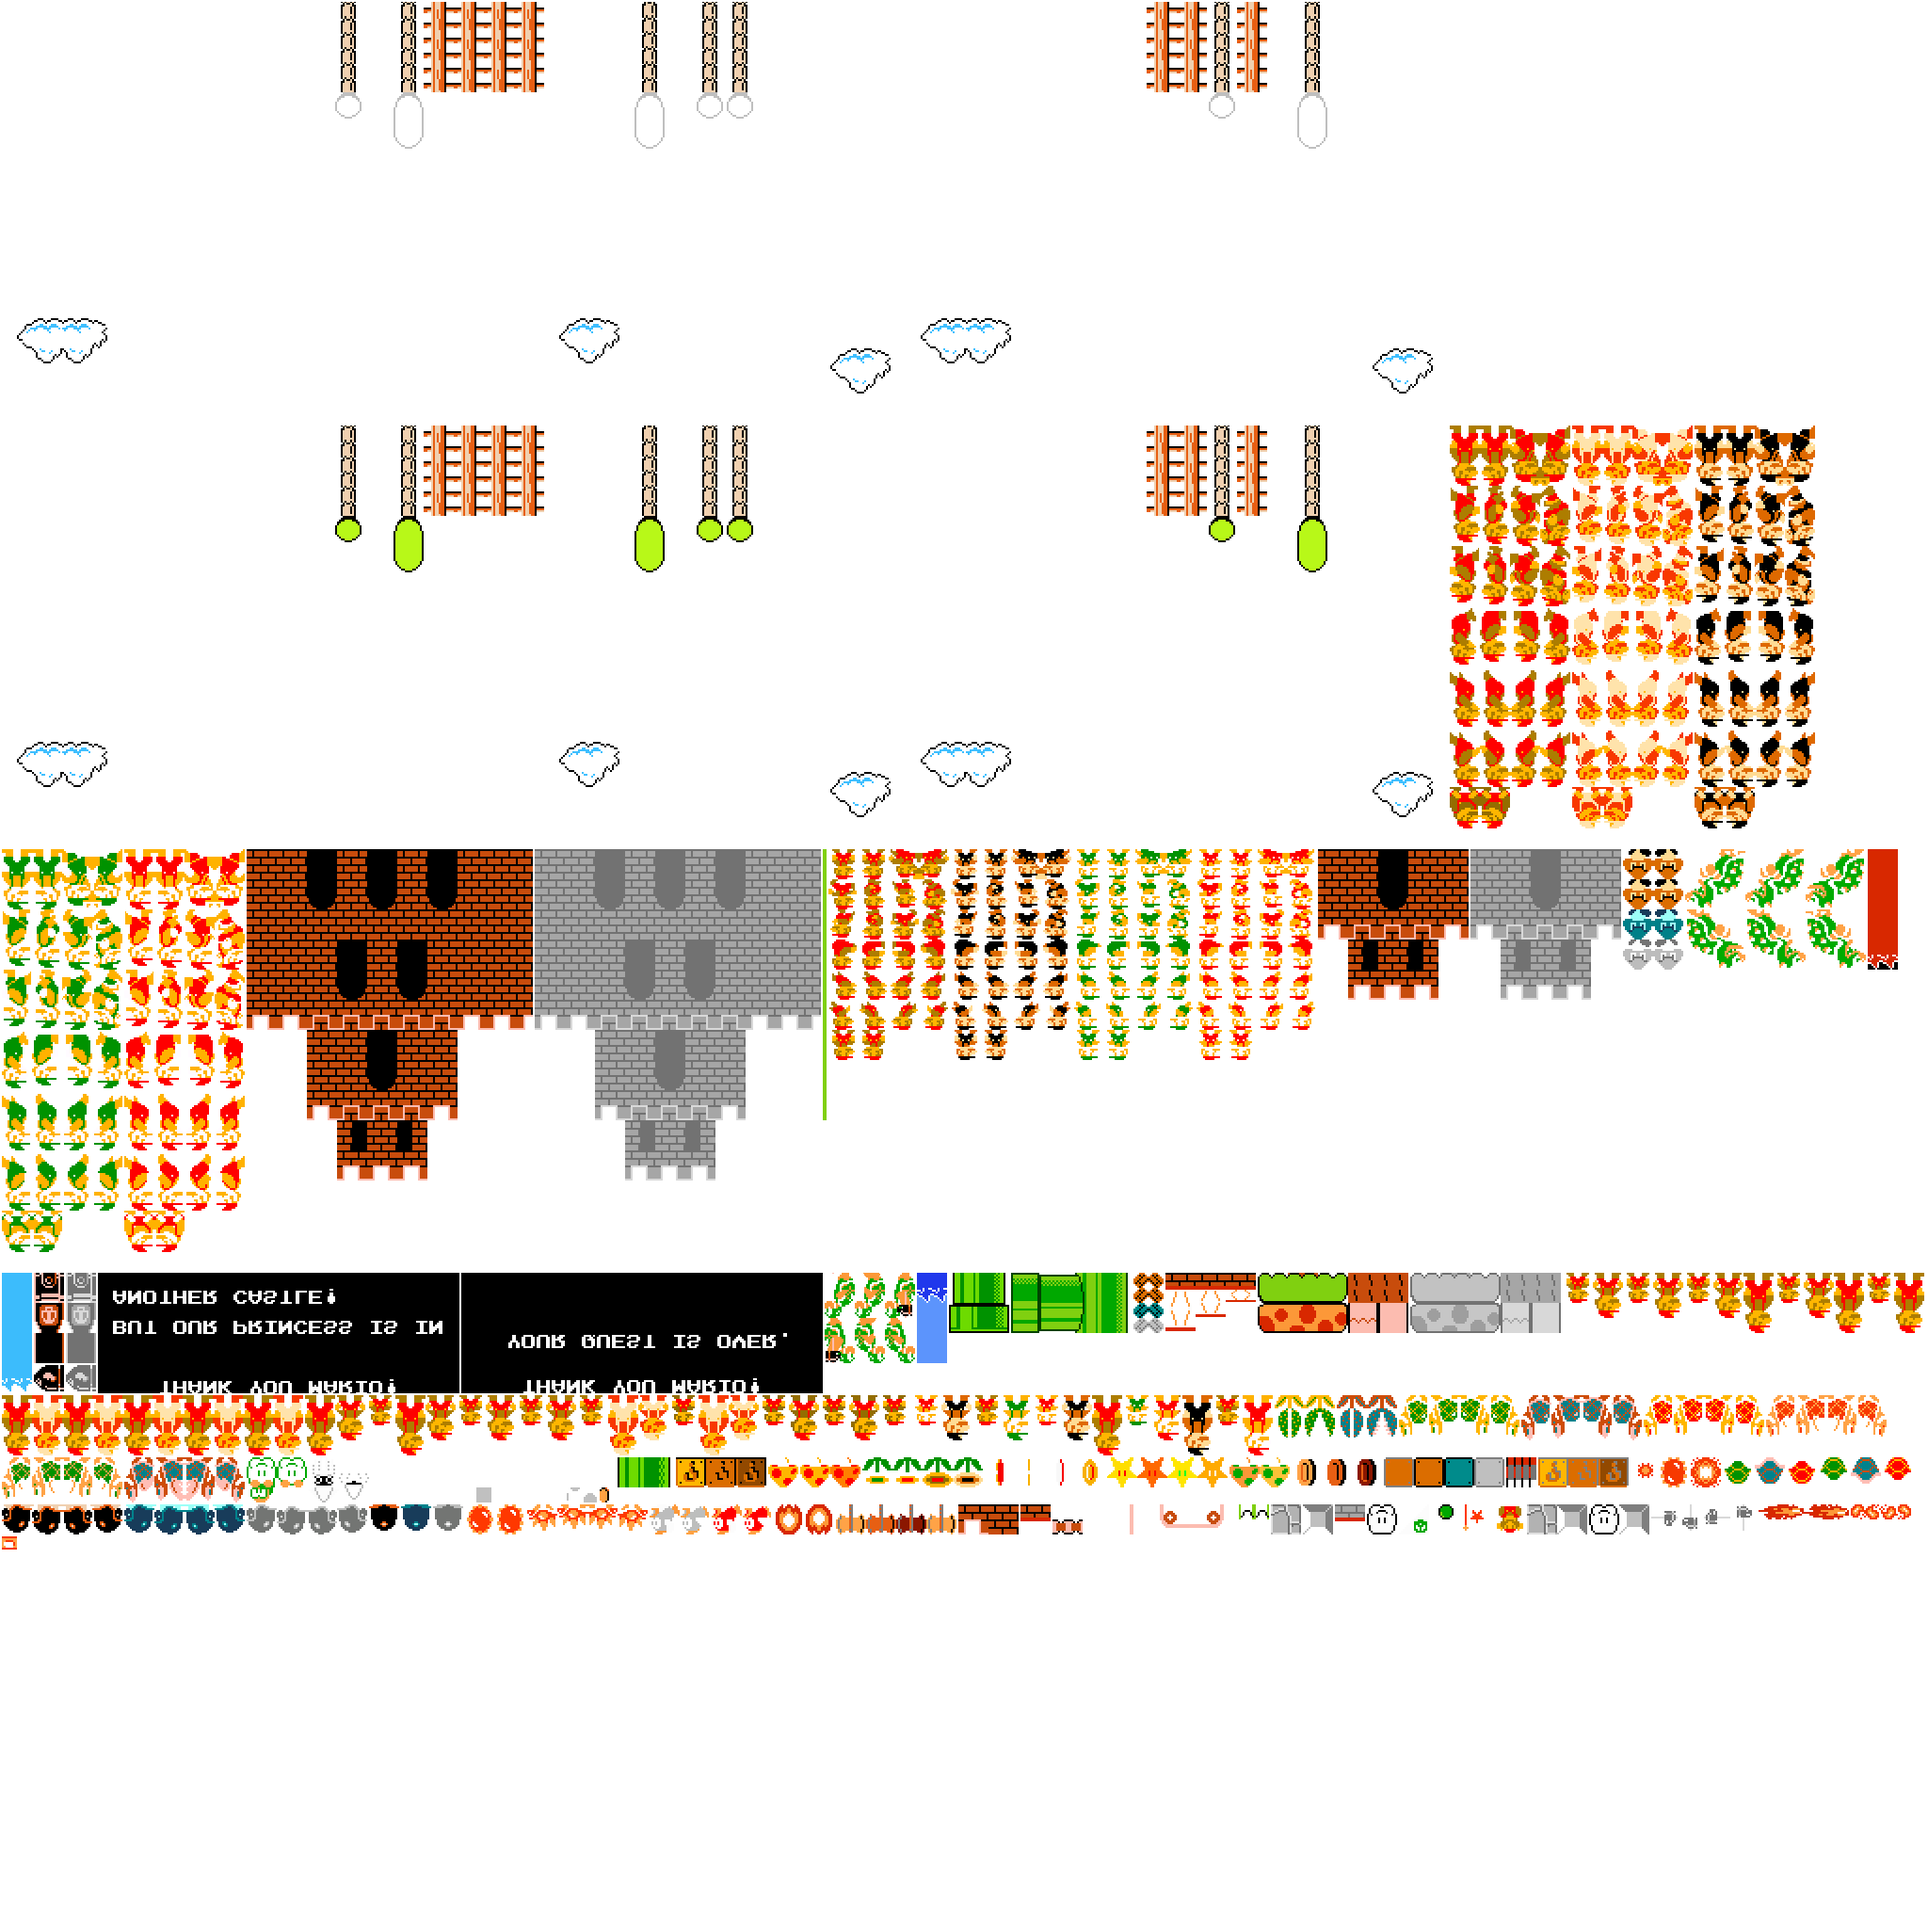
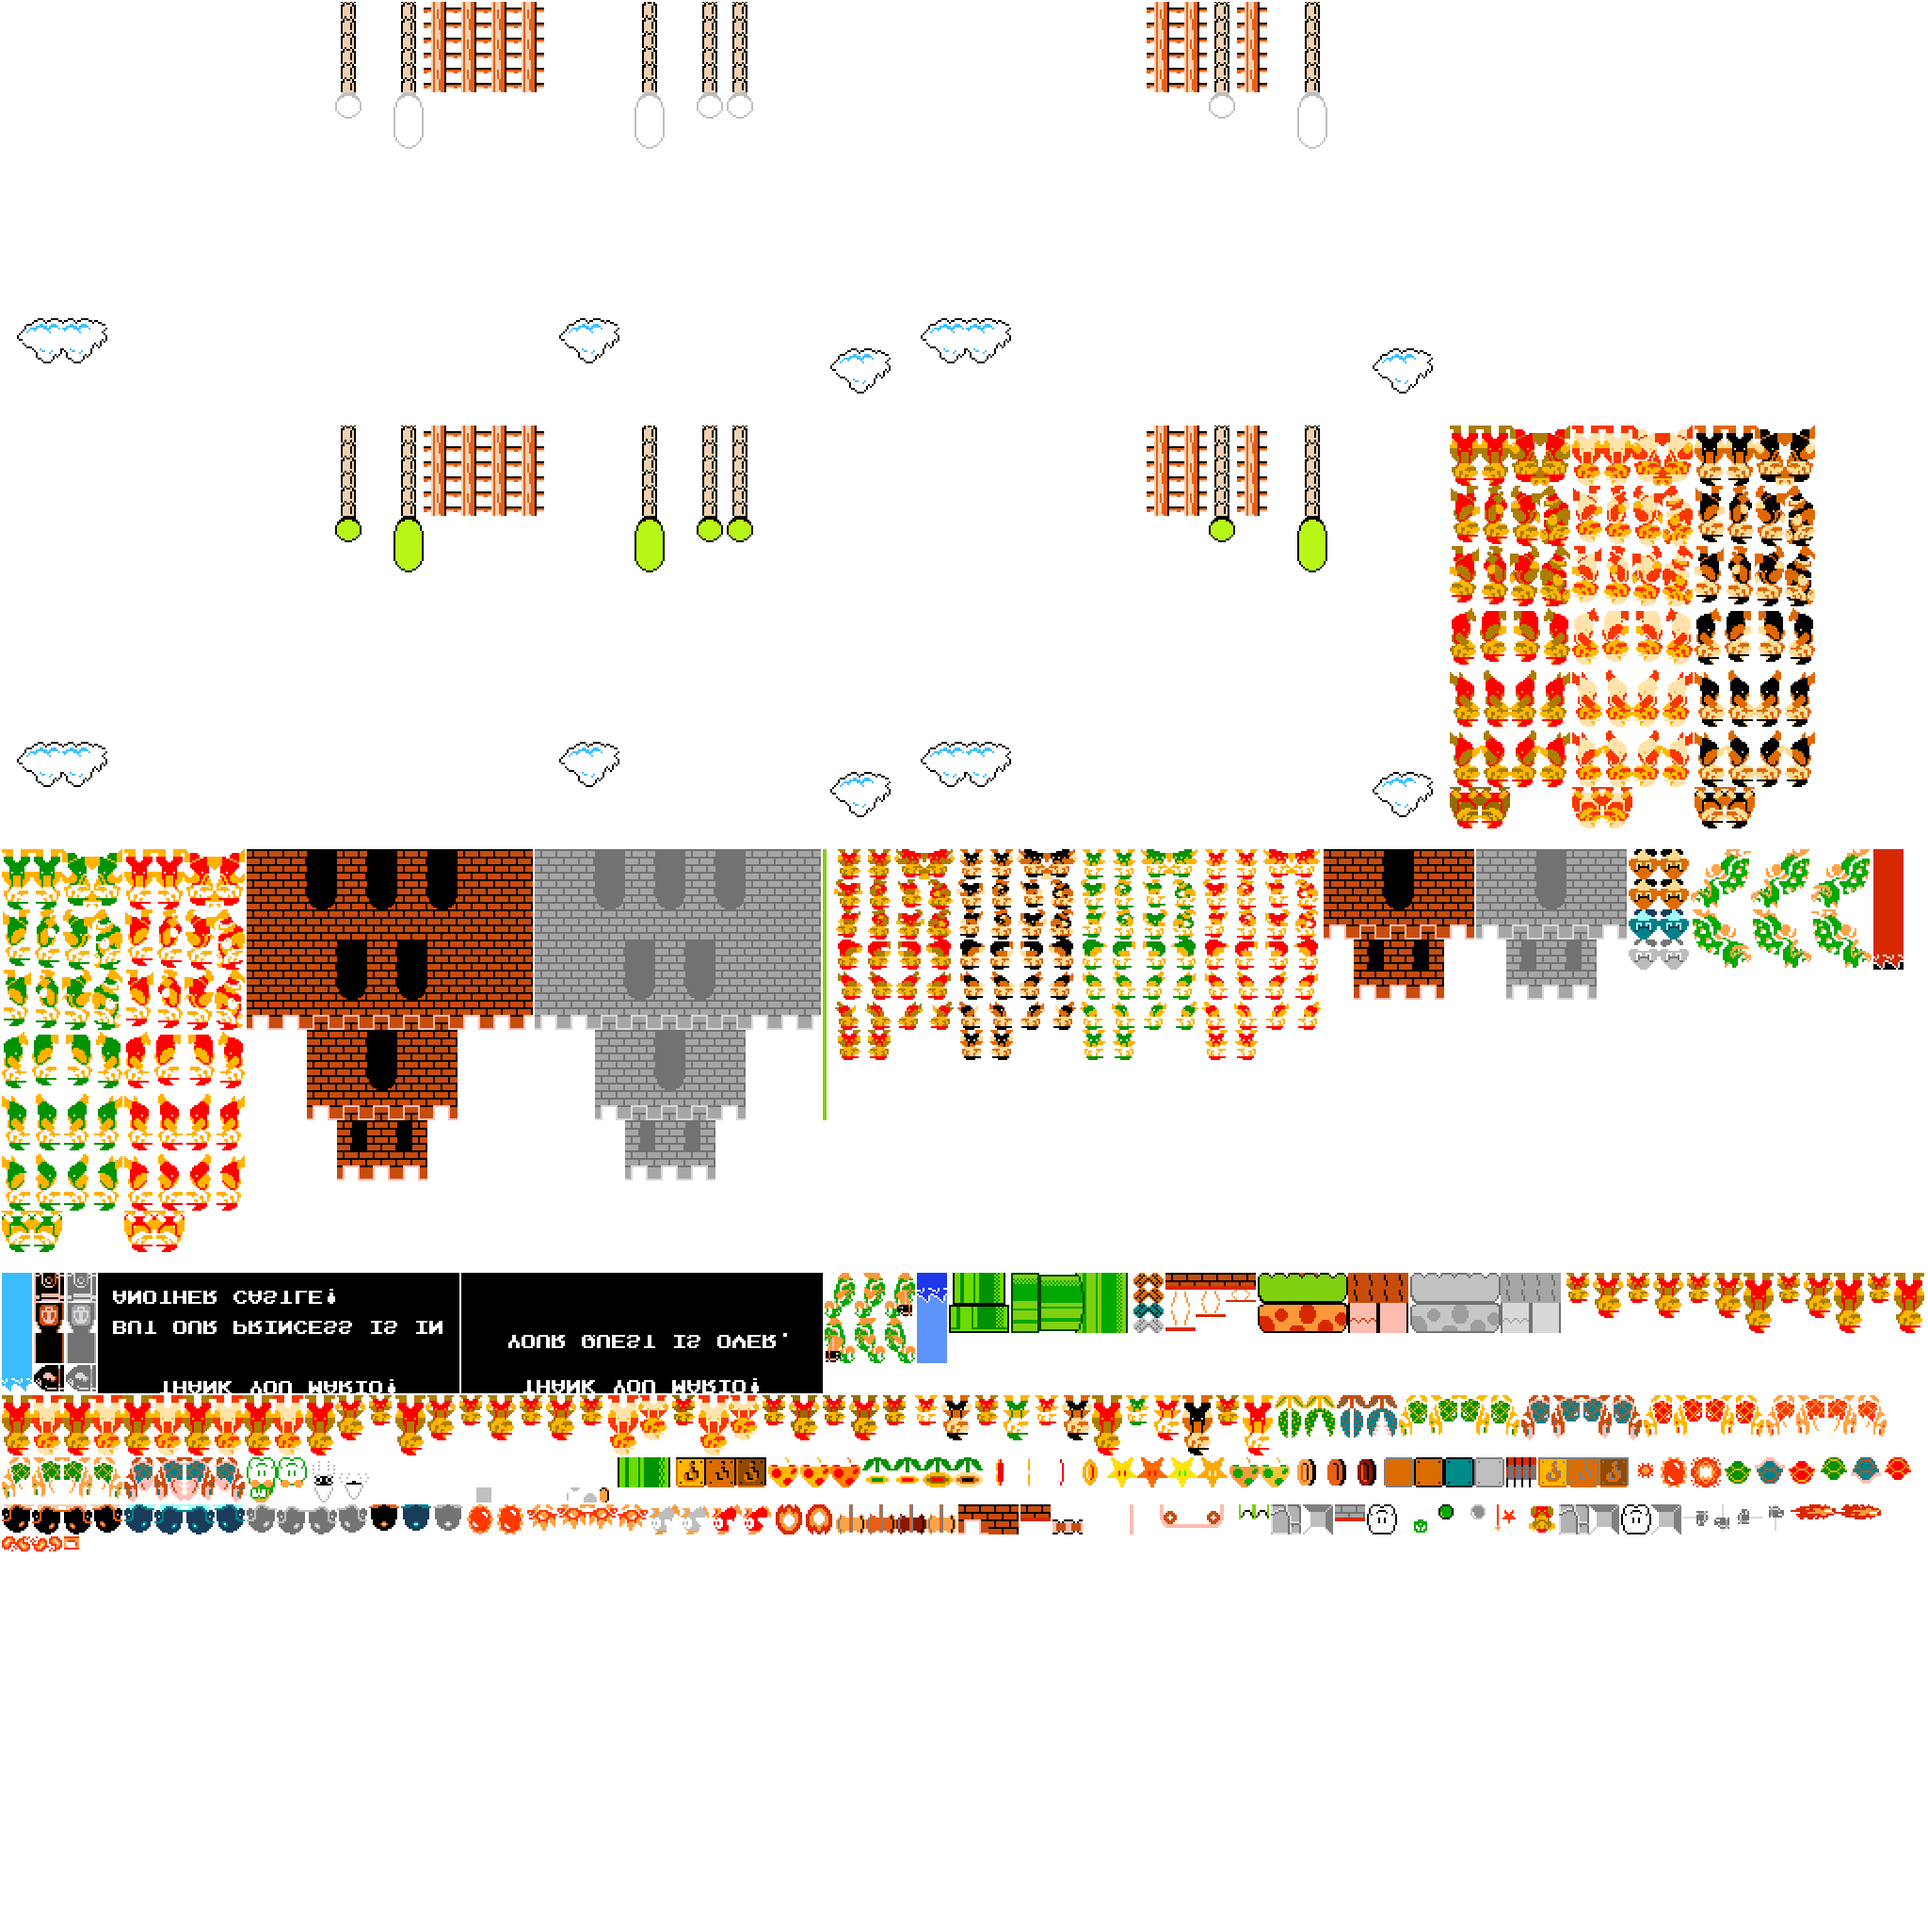
bug fix

Changed region(s): [[0.4062, 0.4375, 1.0, 0.5625], [0.75, 0.7812, 1.0, 0.8125], [0.0, 0.7812, 0.0312, 0.8125]]

diff --git a/app/src/main/java/au/com/guidebee/morsetoolkit/activity/mario/level/LevelLoader.java b/app/src/main/java/au/com/guidebee/morsetoolkit/activity/mario/level/LevelLoader.java
@@ -542,10 +542,15 @@ public final class LevelLoader {
                 // itself is the one part (the cloth) that slides once touched
                 // - see MarioGameScreen's level-completion state machine,
                 // which is what actually reacts to a touch this reports.
+                // Both recolor to "_fence" variants for "CloudsNight" or
+                // (literally) "Fence" backgrounds - not "Fence2", a
+                // different, unrelated name that keeps the plain flag -
+                // matching the original's own condition exactly.
+                boolean fenceFlag = "CloudsNight".equals(level.backgroundImage) || "Fence".equals(level.backgroundImage);
                 MarioContext.spawn(new Scenery(tile.x * tileSize + 14, tile.y * tileSize,
-                        MarioResourceManager.region("flag")));
+                        MarioResourceManager.region(fenceFlag ? "flag_fence" : "flag")));
                 MarioContext.spawn(new Scenery(tile.x * tileSize, tile.y * tileSize - tileSize,
-                        MarioResourceManager.region("flag_sphere")));
+                        MarioResourceManager.region(fenceFlag ? "flag_sphere_fence" : "flag_sphere")));
                 flagPole = new FlagPole(tile.x, tile.y);
                 MarioContext.spawn(flagPole);
                 continue;

diff --git a/tools/mario-atlas-packer/src/PackMarioAtlas.java b/tools/mario-atlas-packer/src/PackMarioAtlas.java
@@ -290,6 +290,14 @@ public class PackMarioAtlas {
             new AssetSpec(Theme.COMMON, "flag", "Flag.png", 1, 1),
             new AssetSpec(Theme.COMMON, "flag_top", "FlagTop.png", 1, 1),
             new AssetSpec(Theme.COMMON, "flag_sphere", "FlagSphere.png", 1, 1),
+            // "CloudsNight" or (literally) "Fence" background levels swap
+            // both to these recolors instead - Mario.java's own case 32,
+            // confirmed reachable across several World 3/5/6/7 levels (not
+            // "Fence2", a different, unrelated background name that keeps
+            // the plain flag) - a real gap found by a whole-game asset audit,
+            // not packed until now.
+            new AssetSpec(Theme.COMMON, "flag_fence", "FlagFence.png", 1, 1),
+            new AssetSpec(Theme.COMMON, "flag_sphere_fence", "FlagSphereFence.png", 1, 1),
             new AssetSpec(Theme.COMMON, "flag_win", "FlagWin.png", 1, 1),
             new AssetSpec(Theme.COMMON, "another_castle_message", "AnotherCastleMessage.png", 1, 1),
             new AssetSpec(Theme.COMMON, "quest_complete", "QuestComplete.png", 1, 1),

diff --git a/docs/MARIO_PORT_PLAN_PHASE2.md b/docs/MARIO_PORT_PLAN_PHASE2.md
@@ -636,7 +636,14 @@ P2.9.5's own still-open on-device check)*
   minute.
   verification (button visibility, checkbox rendering); this is the one item still open.
 
-## 8. Developer/QA debug tooling (design only - not yet implemented)
+## 8. Developer/QA debug tooling (implemented 2026-09-07)
+
+**Status:** everything below shipped as designed - see §7.2's own Step P2.8.5 for the
+as-built specifics (exact class/method names, the two on-device display bugs found and
+fixed while verifying it: the joystick-overlap/wrong-corner button placement, and the
+Table-row-order/checkbox-tick-mark rendering under this engine's y-down camera) and the
+P2.9.5/P2.10.3/etc. entries that used the finished panel afterward. Each design point below
+is annotated with what it actually became; nothing here is still a proposal.
 
 **Why this exists:** P2.9's own vertical slice (P2.9.5) needs replaying a full castle
 level - dodge every enemy, survive the whole bridge, reach the axe - just to check three
@@ -688,6 +695,11 @@ tint - so *every* level is selectable regardless of clear state, calling the exa
 `gamePlay.startLevel(levelNumber)` every normal button already calls. No new loading path;
 this is purely relaxing the one `if (!unlocked)` gate.
 
+**Implemented as:** `MarioMenuScreen#buildLevelList` - `BuildConfig.DEBUG` makes every
+button clickable; a level unlocked *only* this way (not by real progress) tints orange
+instead of the normal grey/locked look, exactly as designed. `MarioSaveState` is never
+written differently either way.
+
 #### 8.3.2 In-level warp (the main time-saver)
 
 A collapsible panel, opened from a small debug-only corner button (see §8.4), listing
@@ -713,6 +725,15 @@ it was, unlike a full `goToLevel` re-entry. Add a brief `player.setInvincibleFor
 warp so teleporting into a wall or next to an enemy doesn't cause an instant, confusing
 death before the tester gets their bearings.
 
+**Implemented as:** `debug.DebugPanel`, opened via a debug-only orange corner button on
+`MarioGameScreen` (top-right, below the "WORLD X-Y" label - an earlier placement directly
+on the joystick/A-B button row was invisible/unusable, moved after on-device testing
+caught it). Warp buttons generated exactly as designed (one per checkpoint, one per
+"interesting" tile type), plus the manual tile-X/Y fields and live coordinate readout.
+Rows render top-to-bottom correctly now too (a second on-device bug: this engine's y-down
+camera flips `Table`'s own row-stacking order, the same underlying issue that hit the
+checkbox tick-marks below - both fixed the same day).
+
 #### 8.3.3 God mode
 
 A `debugInvincible` boolean on `Player` (or a dedicated debug controller holding a
@@ -720,11 +741,23 @@ reference to it) that, while true, makes `isInvincible()` always return true - o
 extra `||` clause, no change to the existing star/hit/transition invincibility paths it
 sits alongside.
 
+**Implemented as:** `Player#debugInvincible`/`#setDebugInvincible`, OR'd into
+`isInvincible()` exactly as designed - a GOD MODE checkbox in the debug panel. Note (found
+during a later on-device session, not a gap in this design): god mode does *not* stop a
+pit-fall death, since `Player#die()`'s own pit-fall check is deliberately unconditional/
+bypasses `isInvincible()` even for a real star, matching the original - a debug tester
+should know this rather than be surprised by it.
+
 #### 8.3.4 Infinite lives
 
 Gate `MarioGameScreen#handlePlayerDeath`'s `gamePlay.gameState().loseLife()` call behind
 `!debugInfiniteLives` - dying still plays out visually (useful for testing the death
 animation itself), it just never charges a life or reaches game-over.
+
+**Implemented as:** `MarioGameScreen#debugInfiniteLives`, reported by the panel's own INF
+LIVES checkbox via a constructor callback (`DebugPanel` doesn't own game-state directly -
+both toggles it and time-scale below report back to `MarioGameScreen`, which does) -
+exactly as designed.
 
 #### 8.3.5 Power-state cycling
 
@@ -733,6 +766,14 @@ the existing `grow()`/transition machinery (widened to a public debug entry poin
 than duplicating power-state logic - lets a tester reach Fire Mario (fireball tests, P2.9)
 or Big Mario (ducking, P2.5) instantly instead of hunting down a mushroom and a flower in
 sequence.
+
+**Implemented as:** `Player#debugCyclePowerState()` - reuses `grow()` verbatim for
+Small→Big and Big→Fire (including its powerup jingle), but calls `beginTransition(...)`
+directly for Fire→Small rather than reusing `shrink()`, since `shrink()`'s own Small-state
+branch means "die" - not a sensible debug-cycle outcome. Guards against re-entry mid-morph
+(`transitionFrames != null`) - the same guard `grow()`/`shrink()` themselves gained later
+in the session once a real gap on that exact point turned up during the whole-game audit
+(§9).
 
 #### 8.3.6 Time-scale / fast-forward
 
@@ -745,6 +786,12 @@ real frame. Useful for skipping a boss's throw-timers, `SpawnController`'s ambie
 or P2.9.1's own 180-tick bridge-collapse hold without altering any of those timers'
 actual tuned values.
 
+**Implemented as:** `MarioGameScreen#debugTimeScale` (default `1`, always `1` outside a
+debug build since nothing else ever sets it), driving a `for` loop around the existing
+per-frame update block in `render` exactly as designed. The panel's own SPEED button
+cycles 1x→2x→4x→1x on tap, reporting back via the same constructor-callback pattern as
+infinite lives.
+
 ### 8.4 Access and gating
 
 The debug panel (and its corner toggle button) only exists when `BuildConfig.DEBUG` is
@@ -753,6 +800,11 @@ a runtime flag, so there's no code path that could ship it turned on by accident
 the same category of risk the reskin plan's own release gate already tracks (a build
 leaving the dev machine while it's not ready) - treat "does a release build even contain
 the debug panel" as one more line on that same checklist, not a separate concern.
+
+**Implemented as:** `app/build.gradle`'s `buildFeatures { buildConfig = true }` (not on by
+default under this project's AGP version - had to be turned on for `BuildConfig.DEBUG` to
+exist at all) plus every debug-only call site guarded by it - confirmed absent from a
+`compileReleaseJavaWithJavac` build, not just assumed.
 
 ### 8.5 What this deliberately reuses, not reinvents
 
@@ -873,3 +925,30 @@ the original always draws a rising reveal behind the block - while `CoinAnim` (t
 correctly stays in front and needed no change. Fixed in all four brick classes: the
 growth/star/life reveal now spawns before the Iron replacement; the coin-case spawn order
 is unchanged.
+
+**Whole-game asset audit, same day (session-closing request: "anything we don't use").**
+A fork enumerated every image the reference registers (`WholeGame.java`'s own
+`storeImage(s)` calls, 129 keys), traced which are actually read by reachable gameplay
+code, and diffed that against `PackMarioAtlas.java`'s own `ASSETS` table. Result: the two
+lists match almost exactly. Two real gaps found and fixed:
+- **`FlagFence`/`FlagSphereFence`** - `Mario.java`'s case 32 swaps the flagpole rod and
+  ball ornament to these recolors whenever a level's background is `"CloudsNight"` or
+  (literally) `"Fence"` - not `"Fence2"`, a different, unrelated background name that keeps
+  the plain flag. Confirmed reachable across several real levels (31/32/51/52/71 = Fence,
+  63 = CloudsNight, all already-shipped worlds). This port's `LevelLoader` always used the
+  plain `flag`/`flag_sphere` regardless. Packed both, wired the same condition.
+- (`RopeFence.png` was also flagged by the same pass, but turned out moot: this port's own
+  `"Rope"`/`"Chain"` tile types are never emitted by any converted level's JSON at all -
+  the plain `rope`/`chain` regions are themselves already-dead, pre-packed-ahead-of-need
+  assets with zero live spawn path, so their Fence recolor has nothing to attach to either.
+  Left unpacked; revisit only if a `"Rope"` tile ever actually appears in converted data.)
+
+Also re-surfaced (not new, already tracked): `OrangePump`/`OrangeTopPump` for World 4-2's
+Clowd bonus level (`Level_94`) - still open, still low-priority, still a real, reachable
+gap same as when it was first found.
+
+Everything else the audit checked (`AnotherCastleMessage`, `WhyYouDOThis.png`,
+`Princess.png`/`QuestComplete`, `Clowd.png`, `SlidingFlagDownAnim.png`, the background-set
+PNGs, the commented-out `WholeGame.java` registrations, `DeadMushroom.png`) turned out to
+be either already correctly wired, or confirmed dead in the *reference itself* (never
+reachable there either) - not gaps in this port.
